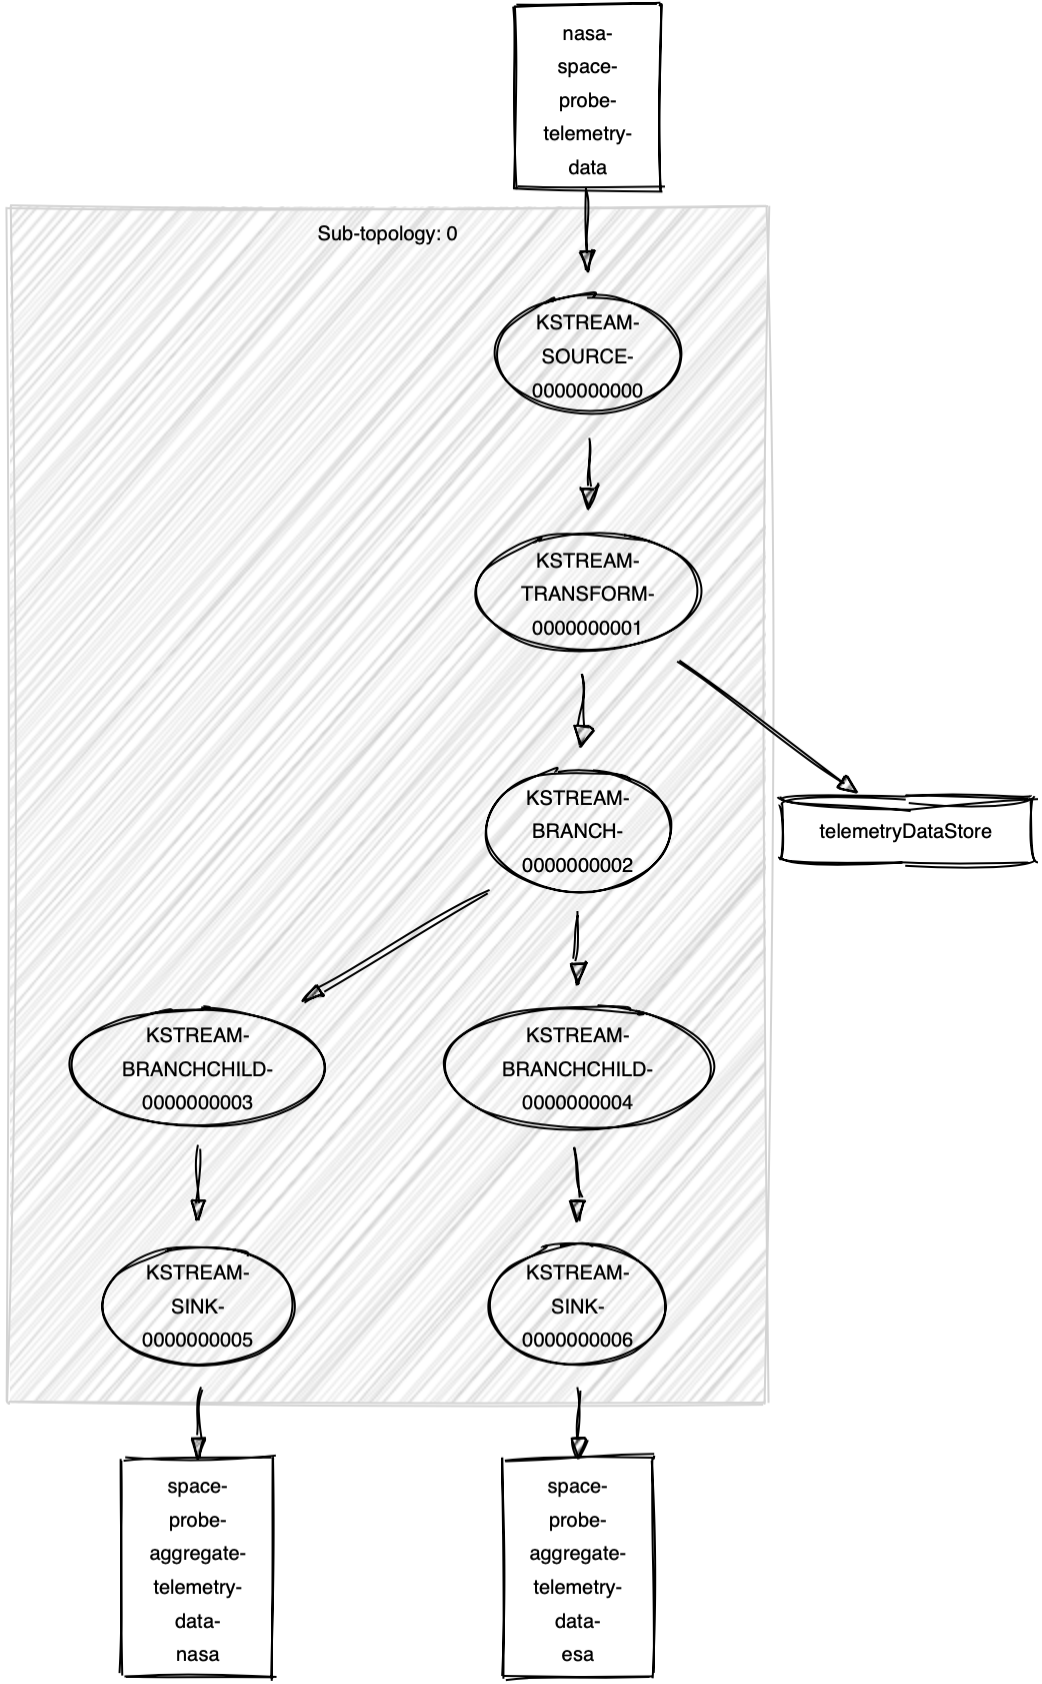
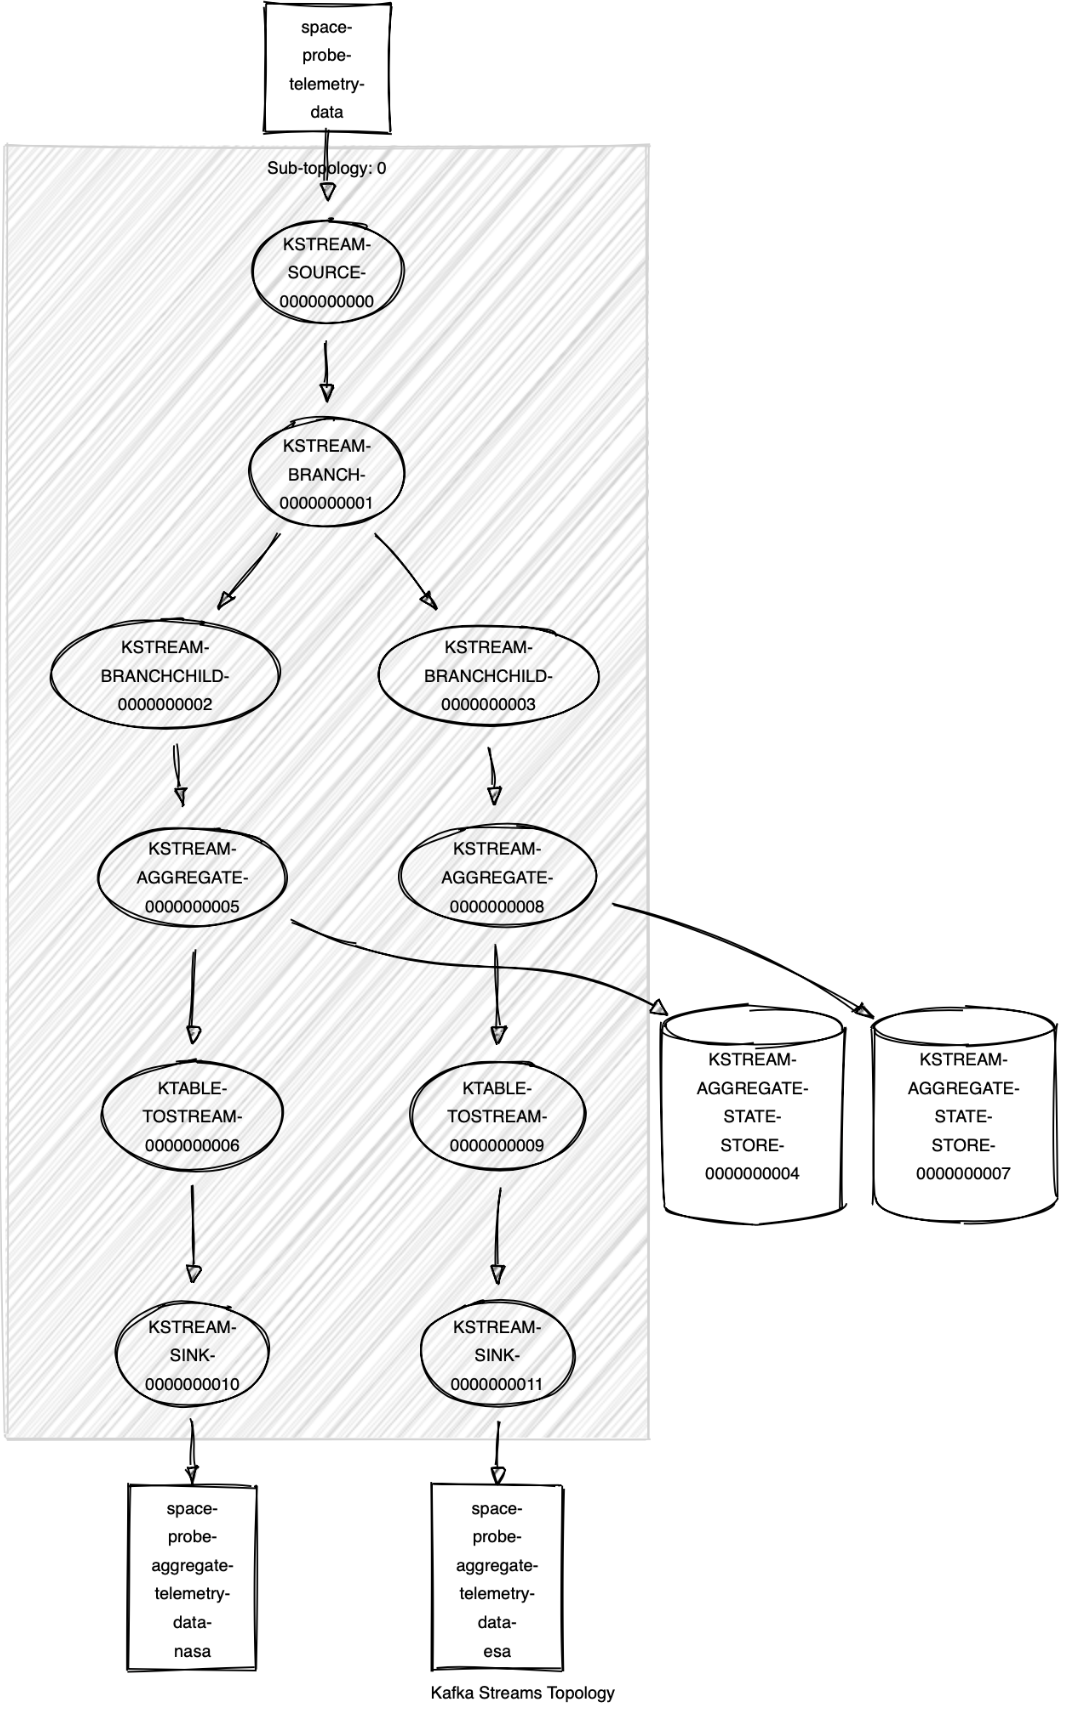
Replace StateStore with KTable aggregation (#2)
* Spike KTable implementation that avoids handling transformers and state stores manually

* Hold a separate state per space agency based on the 2 streams; remove space agency and probe id from event dto

* Update streams topology document

* Add README hint on removing stale containers

diff --git a/kafka-samples-streams/src/main/kotlin/com/example/kafkasamplesstreams/KafkaStreamsHandler.kt b/kafka-samples-streams/src/main/kotlin/com/example/kafkasamplesstreams/KafkaStreamsHandler.kt
@@ -4,19 +4,19 @@ import com.example.kafkasamplesstreams.events.AggregatedTelemetryData
 import com.example.kafkasamplesstreams.events.SpaceAgency
 import com.example.kafkasamplesstreams.events.TelemetryDataPoint
 import com.example.kafkasamplesstreams.serdes.AggregateTelemetryDataSerde
+import mu.KotlinLogging
 import org.apache.kafka.common.serialization.Serdes
 import org.apache.kafka.streams.kstream.KStream
+import org.apache.kafka.streams.kstream.Materialized
 import org.apache.kafka.streams.kstream.Predicate
-import org.apache.kafka.streams.state.KeyValueStore
-import org.apache.kafka.streams.state.StoreBuilder
-import org.apache.kafka.streams.state.Stores
 import org.springframework.context.annotation.Bean
 import org.springframework.context.annotation.Configuration
 
-const val STORE_NAME = "telemetryDataStore"
 
 @Configuration
 class KafkaStreamsHandler {
+
+    private val logger = KotlinLogging.logger {}
 
     @Bean
     fun aggregateTelemetryData(): java.util.function.Function<
@@ -24,27 +24,58 @@ class KafkaStreamsHandler {
             Array<KStream<String, AggregatedTelemetryData>>> {
         return java.util.function.Function<
                 KStream<String, TelemetryDataPoint>,
-                Array<KStream<String, AggregatedTelemetryData>>> {
-            it.transform({ TelemetryAggregationTransformer() }, STORE_NAME)
-                .branch(
-                    // Split up the processing pipeline depending on the space agency of the probe
-                    Predicate { _, v -> v.spaceAgency == SpaceAgency.NASA },
-                    Predicate { _, v -> v.spaceAgency == SpaceAgency.ESA }
-                )
+                Array<KStream<String, AggregatedTelemetryData>>> { telemetryRecords ->
+            telemetryRecords.branch(
+                // Split up the processing pipeline into 2 streams, depending on the space agency of the probe
+                Predicate { _, v -> v.spaceAgency == SpaceAgency.NASA },
+                Predicate { _, v -> v.spaceAgency == SpaceAgency.ESA }
+            ).map { telemetryRecordsPerAgency ->
+                // Apply aggregation logic on each stream separately
+                telemetryRecordsPerAgency
+                    .groupByKey()
+                    .aggregate(
+                        // KTable initializer
+                        { AggregatedTelemetryData(maxSpeedMph = 0.0, traveledDistanceFeet = 0.0) },
+                        // Calculation function for telemetry data aggregation
+                        { probeId, lastTelemetryReading, aggregatedTelemetryData ->
+                            updateTotals(
+                                probeId,
+                                lastTelemetryReading,
+                                aggregatedTelemetryData
+                            )
+                        },
+                        // Configure Serdes for State Store topic
+                        Materialized.with(Serdes.StringSerde(), AggregateTelemetryDataSerde())
+                    )
+                    .toStream()
+            }.toTypedArray()
         }
     }
 
-    @Bean
-    fun aggregatedTelemetryDataStateStore(): StoreBuilder<KeyValueStore<String, AggregatedTelemetryData>> {
-        return Stores.keyValueStoreBuilder(
-            /**
-             * Choosing an inMemory Store ensures that the kafka streams application
-             * doesn't store any data on disk (via RocksDb) and our state is clear
-             * when we delete the changelog topic and restart our application
-             **/
-            Stores.inMemoryKeyValueStore(STORE_NAME),
-            Serdes.String(),
-            AggregateTelemetryDataSerde()
+    /**
+     * Performs calculation of per-probe aggregate measurement data.
+     * The currently calculated totals are held in a Kafka State Store
+     * backing the KTable created with aggregate() and the most recently
+     * created aggregate telemetry data record is passed on downstream.
+     */
+    fun updateTotals(
+        probeId: String,
+        lastTelemetryReading: TelemetryDataPoint,
+        currentAggregatedValue: AggregatedTelemetryData
+    ): AggregatedTelemetryData {
+        val totalDistanceTraveled =
+            lastTelemetryReading.traveledDistanceFeet + currentAggregatedValue.traveledDistanceFeet
+        val maxSpeed = if (lastTelemetryReading.currentSpeedMph > currentAggregatedValue.maxSpeedMph)
+            lastTelemetryReading.currentSpeedMph else currentAggregatedValue.maxSpeedMph
+        val aggregatedTelemetryData = AggregatedTelemetryData(
+            traveledDistanceFeet = totalDistanceTraveled,
+            maxSpeedMph = maxSpeed
         )
+        logger.info {
+            "Calculated new aggregated telemetry data for probe $probeId. New max speed: ${aggregatedTelemetryData.maxSpeedMph} and " +
+                    "traveled distance ${aggregatedTelemetryData.traveledDistanceFeet}"
+
+        }
+        return aggregatedTelemetryData
     }
 }

diff --git a/kafka-samples-streams/src/main/kotlin/com/example/kafkasamplesstreams/events/AggregatedTelemetryData.kt b/kafka-samples-streams/src/main/kotlin/com/example/kafkasamplesstreams/events/AggregatedTelemetryData.kt
@@ -6,12 +6,8 @@ import com.fasterxml.jackson.annotation.JsonProperty
  * Represents the totals of all measurements received for a given probe.
  */
 data class AggregatedTelemetryData(
-    @JsonProperty("probeId")
-    val probeId: String,
     @JsonProperty("maxSpeedMph")
     val maxSpeedMph: Double,
     @JsonProperty("traveledDistanceFeet")
     val traveledDistanceFeet: Double,
-    @JsonProperty("spaceAgency")
-    val spaceAgency: SpaceAgency
 )

diff --git a/README.md b/README.md
@@ -49,4 +49,8 @@ The sample producer will emit a sample telemetry record for one of 10 different 
 
 If you want to have a look at the Streams Topology used in this sample, you find a visualization in the `doc` subdirectory. Generate your own [via Spring Boot Actuator](http://localhost:8080/actuator/kafkastreamstopology/kafka-telemetry-data-aggregator) and the excellent [Kafka Streams Topology Visualizer](https://zz85.github.io/kafka-streams-viz/).
 
+### My docker containers are throwing errors on startup - what's wrong?
+
+Unless you're running this example for the first time, your docker containers might be struggling with a previous inconsistent state. Giving yourself a fresh start by running `docker-compose down --remove-orphans -v` inside the `docker` directory should do the trick.
+
 Have fun!
